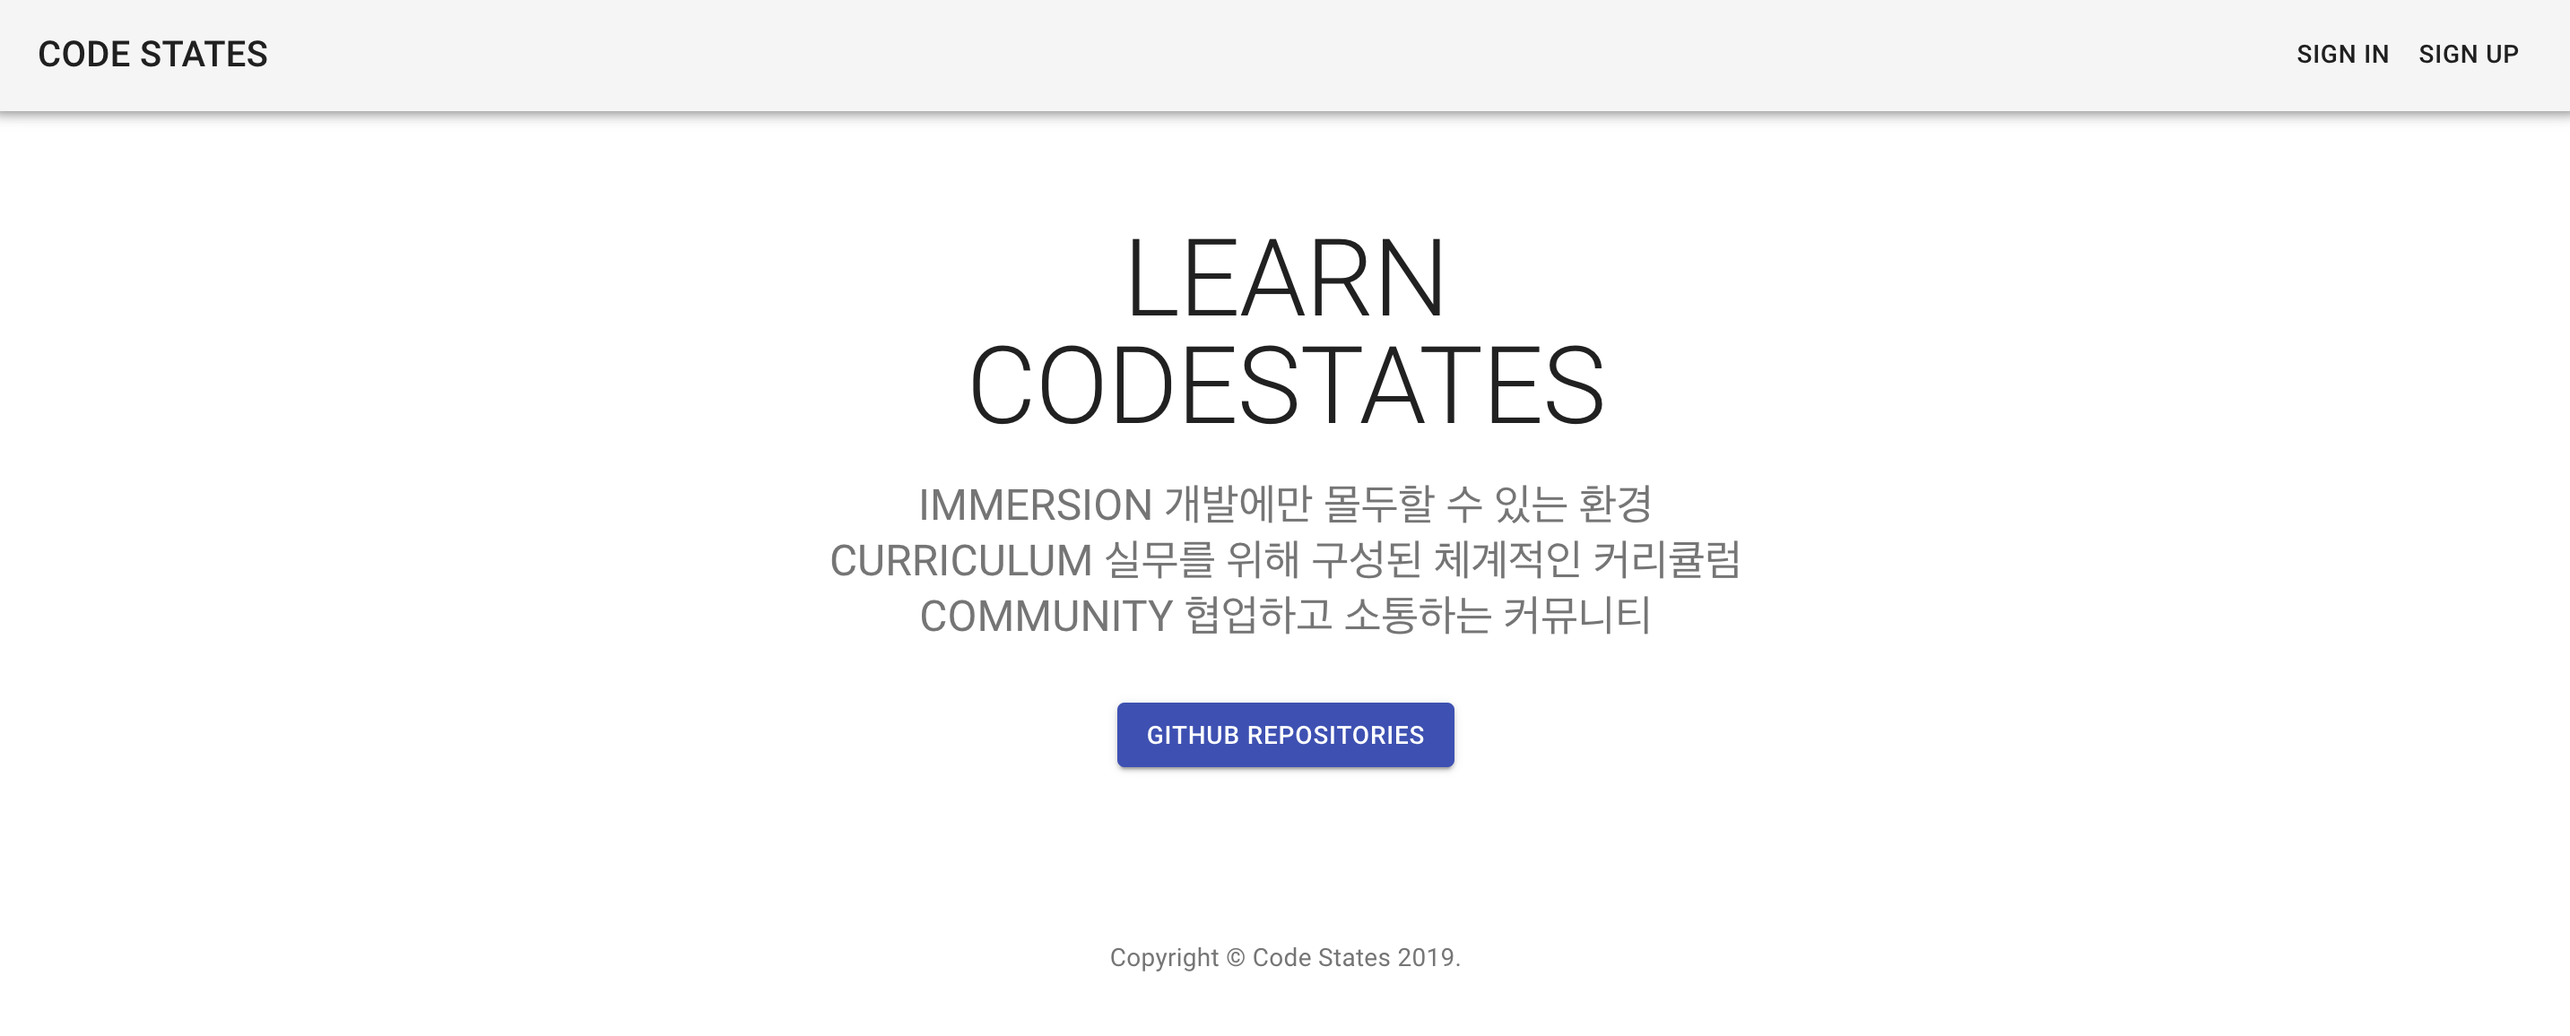
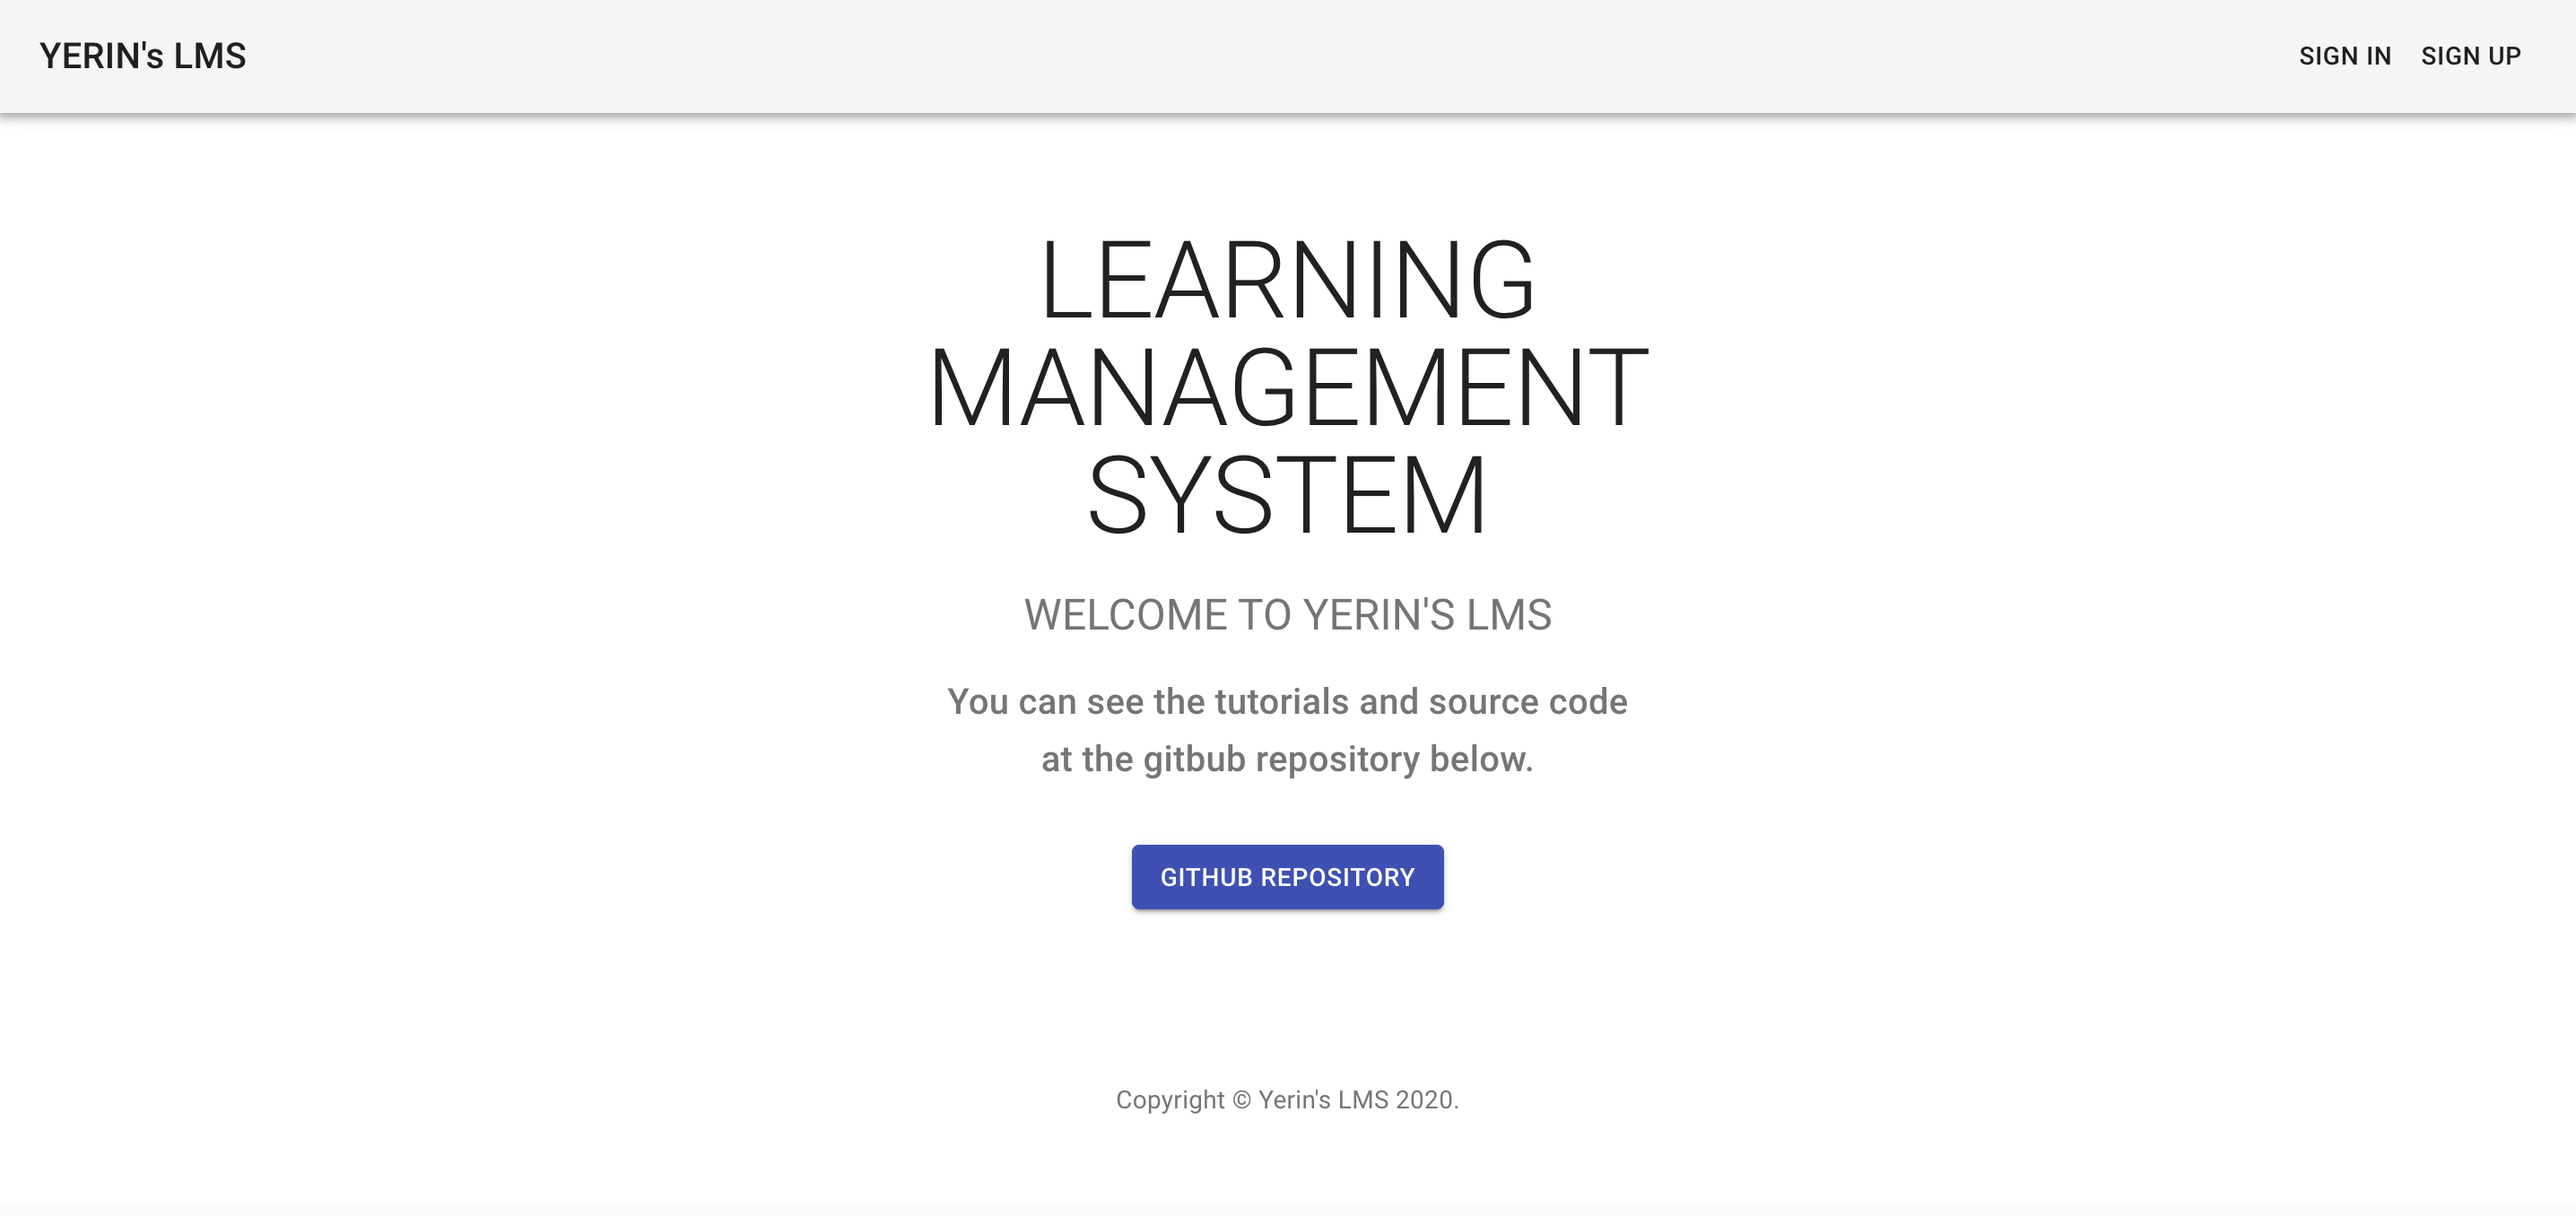
Docker compose and CI setups (#8)
* Setting for the docker-compose

* Add circleci config and clean up code on the front side

* Add screen shot on readme

diff --git a/client/components/SignForm/SignInForm.jsx b/client/components/SignForm/SignInForm.jsx
@@ -52,6 +52,18 @@ const SignInForm = ({ signedIn, signIn }) => {
           Sign in
         </Typography>
         <form className={classes.form} onSubmit={onSubmit} noValidate>
+          <Grid item xs>
+            {isValid
+              ? null
+              : (
+                <div>
+                  <h6 style={{ color: 'red', textAlign: 'center' }}>Email address or password is wrong.</h6>
+                  <h6 style={{ color: 'red', textAlign: 'center' }}>Please try again.</h6>
+
+                  {/* <div> </div> */}
+                </div>
+              )}
+          </Grid>
           <TextField
             variant="outlined"
             margin="normal"
@@ -78,32 +90,26 @@ const SignInForm = ({ signedIn, signIn }) => {
             placeholder="Password"
             onChange={handleChange('password')}
           />
-          <Button
-            type="submit"
-            fullWidth
-            variant="contained"
-            color="primary"
-            className={classes.submit}
-          >
-            Sign In
-          </Button>
           <Grid container>
-            <Grid item xs>
-              {isValid
-                ? null
-                : (
-                  <div>
-                    <div> 이메일 주소, 혹은 비밀번호가 다릅니다.</div>
-                  </div>
-                )}
-            </Grid>
-            <Grid item>
-              <div>
-                <Link to="/signup"> 아직도 회원이 아니십니까? </Link>
-              </div>
-              <div>
-                {signedIn ? <Redirect to="/" /> : <Redirect to="/signin" />}
-              </div>
+
+            <Button
+              type="submit"
+              fullWidth
+              variant="contained"
+              color="primary"
+              className={classes.submit}
+            >
+              Sign In
+            </Button>
+            <Grid container justify="flex-end">
+              <Grid item>
+                <div>
+                  <Link to="/signup"> Still not a member? Please sign up!</Link>
+                </div>
+                <div>
+                  {signedIn ? <Redirect to="/" /> : <Redirect to="/signin" />}
+                </div>
+              </Grid>
             </Grid>
           </Grid>
         </form>

diff --git a/client/components/Main/Home.jsx b/client/components/Main/Home.jsx
@@ -83,13 +83,20 @@ const Home = ({
         <div className={classes.heroContent}>
           <Container maxWidth="sm">
             <Typography component="h1" variant="h2" align="center" color="textPrimary" gutterBottom>
-              LEARN CODESTATES
+              LEARNING MANAGEMENT SYSTEM
             </Typography>
             <Typography variant="h5" align="center" color="textSecondary" paragraph>
-              IMMERSION 개발에만 몰두할 수 있는 환경
-              CURRICULUM 실무를 위해 구성된 체계적인 커리큘럼
-              COMMUNITY 협업하고 소통하는 커뮤니티
+              {'WELCOME TO YERIN\'S LMS'}
             </Typography>
+            {isAdmin
+              ? null
+              : (
+                <Typography variant="h6" align="center" color="textSecondary" paragraph>
+                  You can see the tutorials and source code
+                  <br />
+                  at the gitbub repository below.
+                </Typography>
+              )}
             <div className={classes.heroButtons}>
               <Grid container spacing={2} justify="center">
                 <Grid item>
@@ -108,8 +115,8 @@ const Home = ({
                     )
                     : (
                       <Button variant="contained" color="primary">
-                        <Linkto color="inherit" href="https://github.com/codestates">
-                          Github Repositories
+                        <Linkto color="inherit" href="https://github.com/lenacha/learning-system">
+                          Github Repository
                         </Linkto>
                       </Button>
                     )}

diff --git a/client/components/NavigationBar.jsx b/client/components/NavigationBar.jsx
@@ -47,7 +47,7 @@ const NavigationBar = ({ name, signedIn, signout }) => {
       <Toolbar>
         <Link to="/">
           <Typography variant="h6" color="textPrimary" className={classes.title} noWrap>
-            CODE STATES
+            {'YERIN\'s LMS'}
           </Typography>
         </Link>
         <div className={classes.grow} />

diff --git a/public/dist/index.html b/public/dist/index.html
@@ -14,7 +14,8 @@
 
 <body>
   <div class="main" id="main"></div>
-  <script type="text/javascript" src="bundle.js"></script>
+  <!-- <script type="text/javascript" src="https://yerin-lms-bundle.s3-us-west-1.amazonaws.com/bundle.js"></script> -->
+  <script type="text/javascript" src="bundle.js" ></script>
 </body>
 
 </html>

diff --git a/client/components/Copyright.jsx b/client/components/Copyright.jsx
@@ -5,7 +5,7 @@ const Copyright = () => (
   <Typography variant="body2" color="textSecondary" align="center">
     {'Copyright © '}
     <Link color="inherit" href="https://www.codestates.com//">
-      {'Code States '}
+      {'Yerin\'s LMS '}
     </Link>
     {new Date().getFullYear()}
     .
